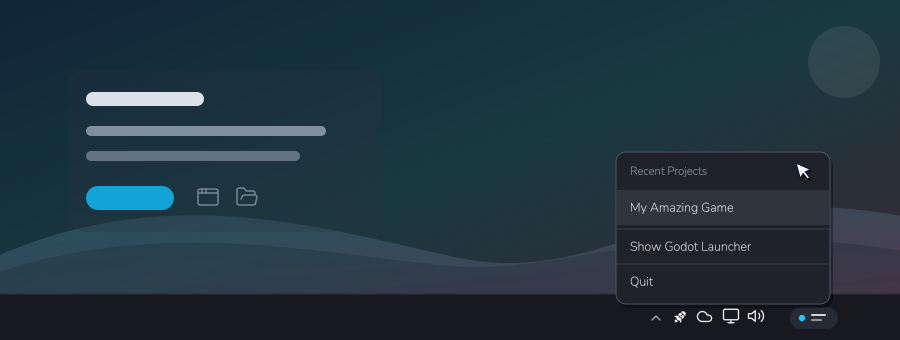
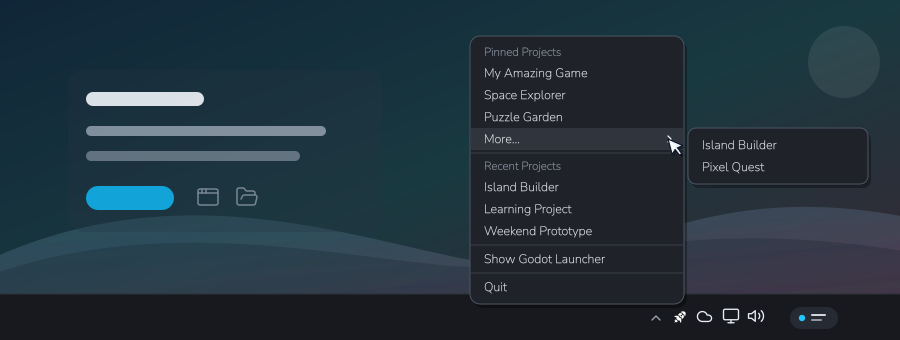
docs: highlight pinned projects in the system tray

diff --git a/src/components/HomepageFeatures/index.tsx b/src/components/HomepageFeatures/index.tsx
@@ -108,7 +108,7 @@ const FeatureList: FeatureItem[] = [
     ),
   },
   {
-    title: 'Open Recent Projects Quickly',
+    title: 'Open Pinned and Recent Projects',
     sources: {
       light: '/img/features/Quick_Edit_From_System_Tray_Light.webp',
       dark: '/img/features/Quick_Edit_From_System_Tray_Dark.webp',
@@ -116,7 +116,8 @@ const FeatureList: FeatureItem[] = [
     size: { width: 410, height: 320 },
     description: (
       <>
-        Reopen recent projects from the system tray without browsing folders.
+        Open pinned projects in your chosen order or return to recent projects
+        from the system tray.
       </>
     ),
   },
